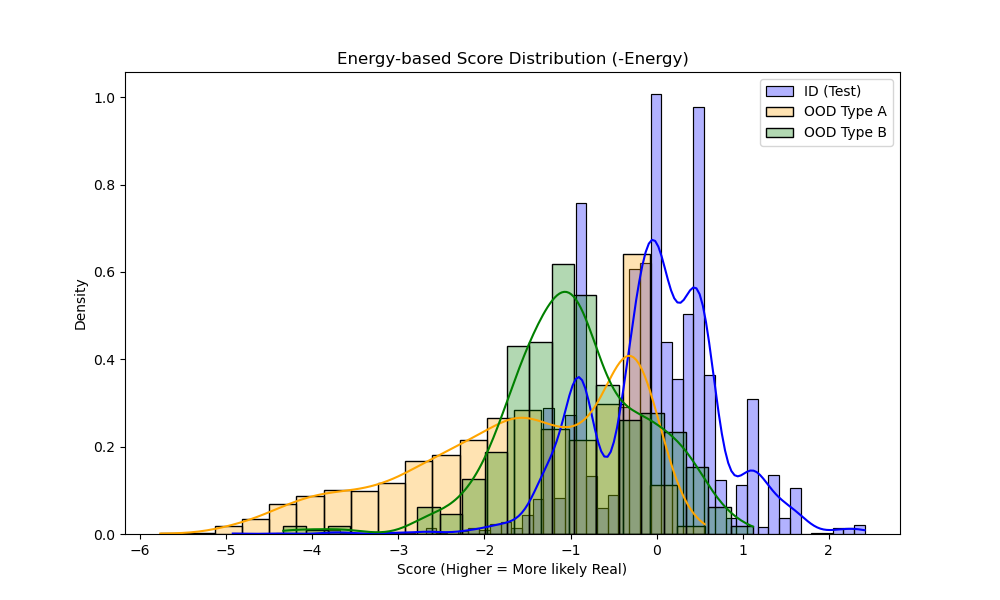
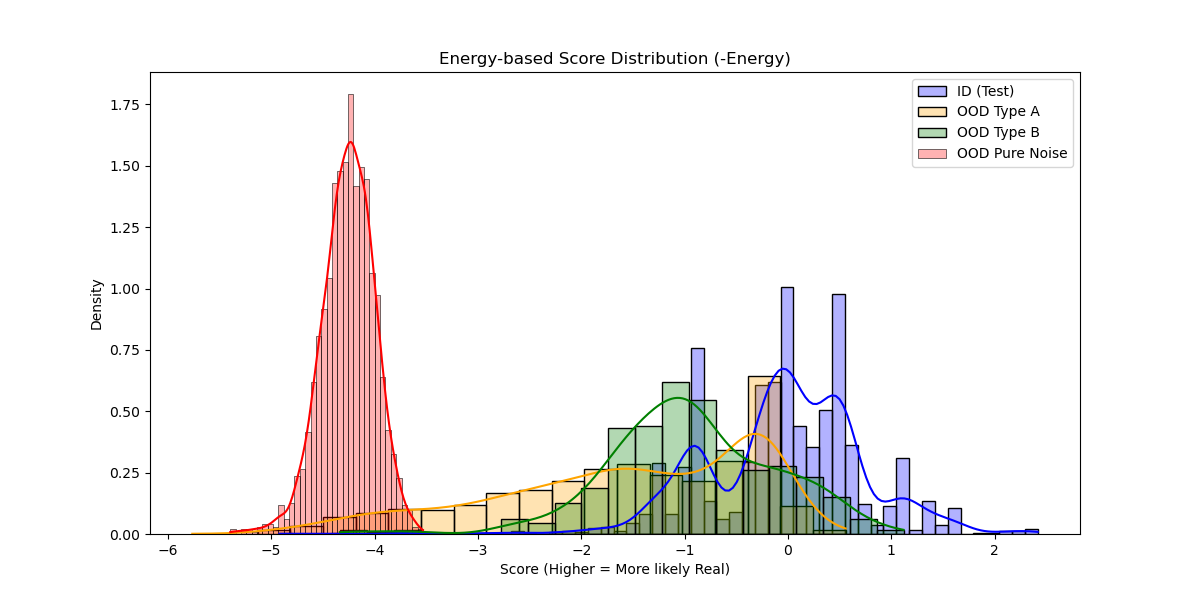
Enhance OOD analysis: Add pure noise dataset and update visualization to include noise scores

diff --git a/EBM/main.py b/EBM/main.py
@@ -573,6 +573,9 @@ def run_ood_analysis(args, ckpt_path: Union[str, Path]):
     :param ckpt_path: local path to the trained checkpoint.
     :return: None
     """
+    # Note to avoid confusion:
+    # I plottet the score and NOT the energy directly. Score = -Energy, so high score = likely real data
+    
     model = JEM.load_from_checkpoint(ckpt_path)
     model.to(device)
     model.eval() # Important: Switch to eval mode
@@ -588,6 +591,7 @@ def run_ood_analysis(args, ckpt_path: Union[str, Path]):
     test_loader = data.DataLoader(datasets['test'], batch_size=batch_size, shuffle=False, drop_last=False, num_workers=num_workers)
     ood_ta_loader = data.DataLoader(datasets['ood_ta'], batch_size=batch_size, shuffle=False, drop_last=False, num_workers=num_workers)
     ood_tb_loader = data.DataLoader(datasets['ood_tb'], batch_size=batch_size, shuffle=False, drop_last=False, num_workers=num_workers)
+    ood_noise_loader = data.DataLoader(datasets['ood_noise'], batch_size=batch_size, shuffle=False, drop_last=False, num_workers=num_workers)
 
     # 1. Calculate scores
     # We use score_fn from ood.py which returns -Energy (so high score = real data)
@@ -610,12 +614,16 @@ def run_ood_analysis(args, ckpt_path: Union[str, Path]):
     
     print("Scoring OOD Type B...")
     scores_ood_tb = get_scores(ood_tb_loader)
+    
+    print("Scoring OOD Pure Noise...")
+    scores_ood_noise = get_scores(ood_noise_loader)
 
     # 2. Visualize distributions (Histogram)
-    plt.figure(figsize=(10, 6))
+    plt.figure(figsize=(12, 6))
     sns.histplot(scores_test, label='ID (Test)', kde=True, stat="density", color="blue", alpha=0.3)
     sns.histplot(scores_ood_ta, label='OOD Type A', kde=True, stat="density", color="orange", alpha=0.3)
     sns.histplot(scores_ood_tb, label='OOD Type B', kde=True, stat="density", color="green", alpha=0.3)
+    sns.histplot(scores_ood_noise, label='OOD Pure Noise', kde=True, stat="density", color="red", alpha=0.3)
     plt.title("Energy-based Score Distribution (-Energy)")
     plt.xlabel("Score (Higher = More likely Real)")
     plt.ylabel("Density")
@@ -640,6 +648,7 @@ def run_ood_analysis(args, ckpt_path: Union[str, Path]):
 
     calculate_auroc(scores_test, scores_ood_ta, "OOD Type A")
     calculate_auroc(scores_test, scores_ood_tb, "OOD Type B")
+    calculate_auroc(scores_test, scores_ood_noise, "OOD Pure Noise")
 
 def find_best_checkpoint(base_dir):
     """

diff --git a/EBM/data.py b/EBM/data.py
@@ -67,6 +67,11 @@ def get_datasets(data_dir: Union[str, Path]) -> Dict[str, TransformTensorDataset
     # Two types of OOD datasets
     X_ood_ta = torch.from_numpy(ood_ta).to(torch.float32).unsqueeze(1)
     X_ood_tb = torch.from_numpy(ood_tb).to(torch.float32).unsqueeze(1)
+    
+    # Generate pure noise dataset (random uniform noise matching the shape and range of training data)
+    num_noise_samples = len(ood_ta)  # Match the size of other OOD datasets
+    noise_shape = (num_noise_samples,) + X_ood_ta.shape[1:]
+    X_noise = torch.rand(noise_shape, dtype=torch.float32)  # Uniform noise in [0, 1]
 
     std_transform = transforms.Compose([transforms.Lambda(minmax),
                                         transforms.Resize(size=56,antialias=True),
@@ -82,9 +87,11 @@ def get_datasets(data_dir: Union[str, Path]) -> Dict[str, TransformTensorDataset
     # Create the OOD datasets
     ood_ta_set = TransformTensorDataset(X_ood_ta, transform=std_transform)
     ood_tb_set = TransformTensorDataset(X_ood_tb, transform=std_transform)
+    ood_noise_set = TransformTensorDataset(X_noise, transform=std_transform)
 
     return {'train': train_set,
             'val': val_set,
             'test': test_set,
             'ood_ta': ood_ta_set,
-            'ood_tb': ood_tb_set}
+            'ood_tb': ood_tb_set,
+            'ood_noise': ood_noise_set}
